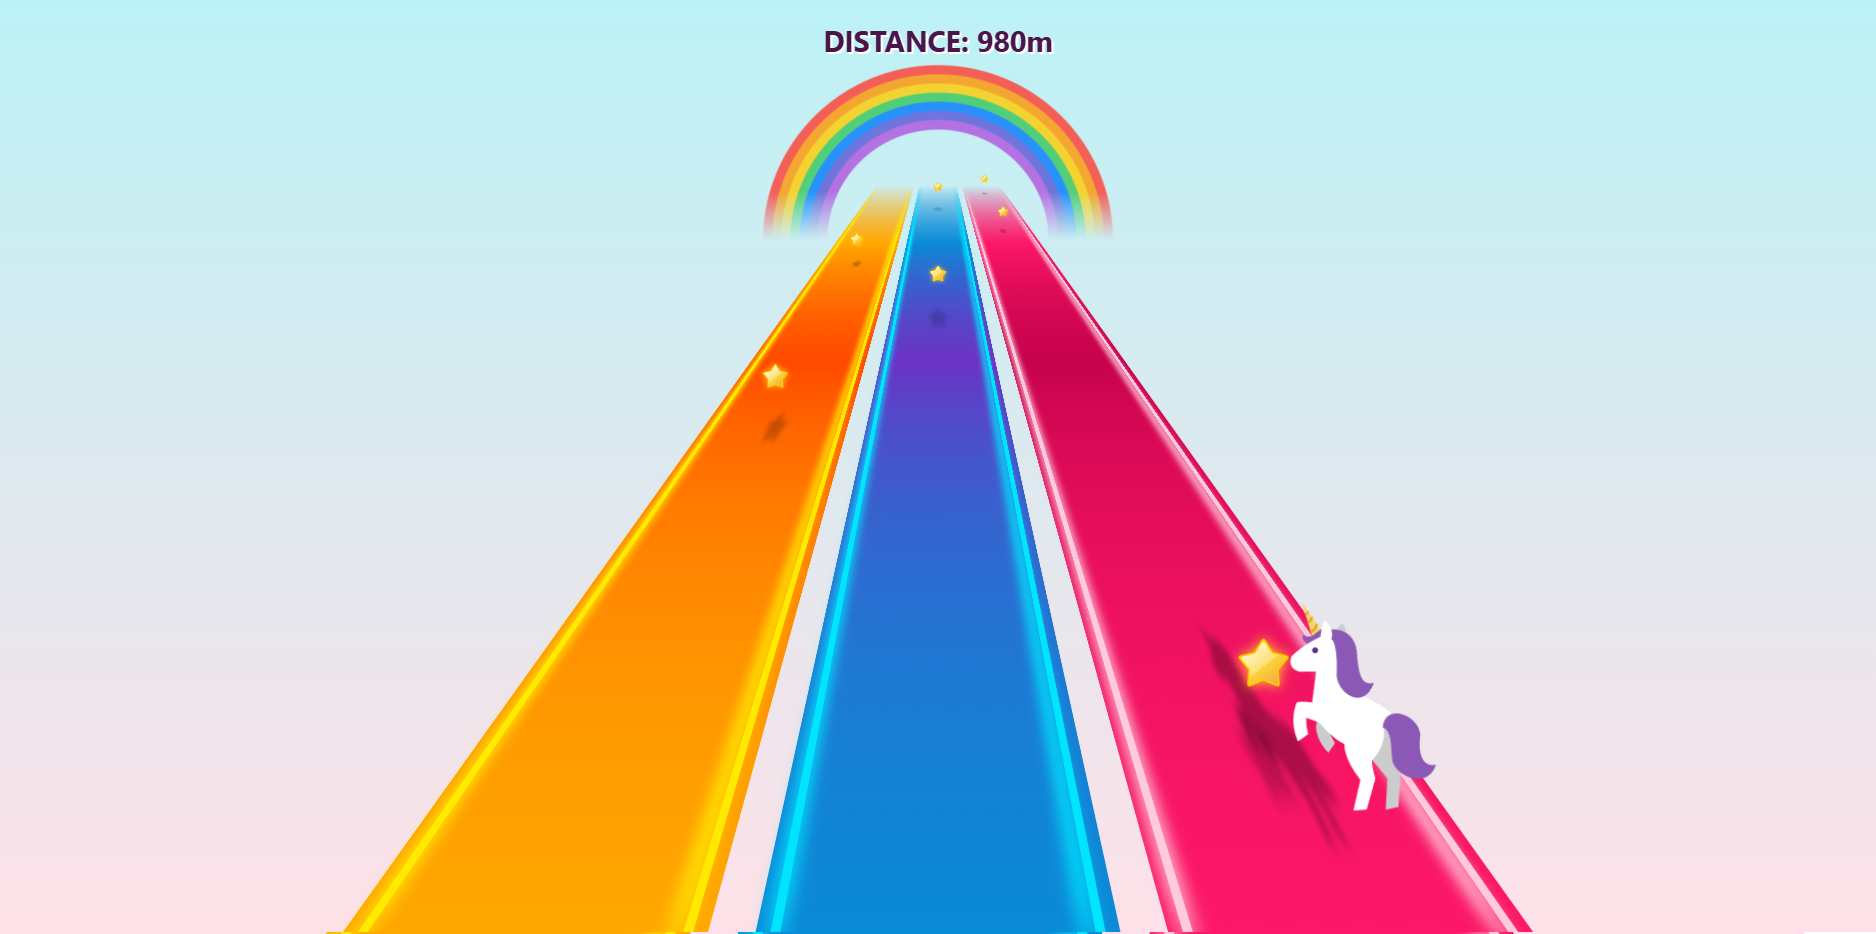
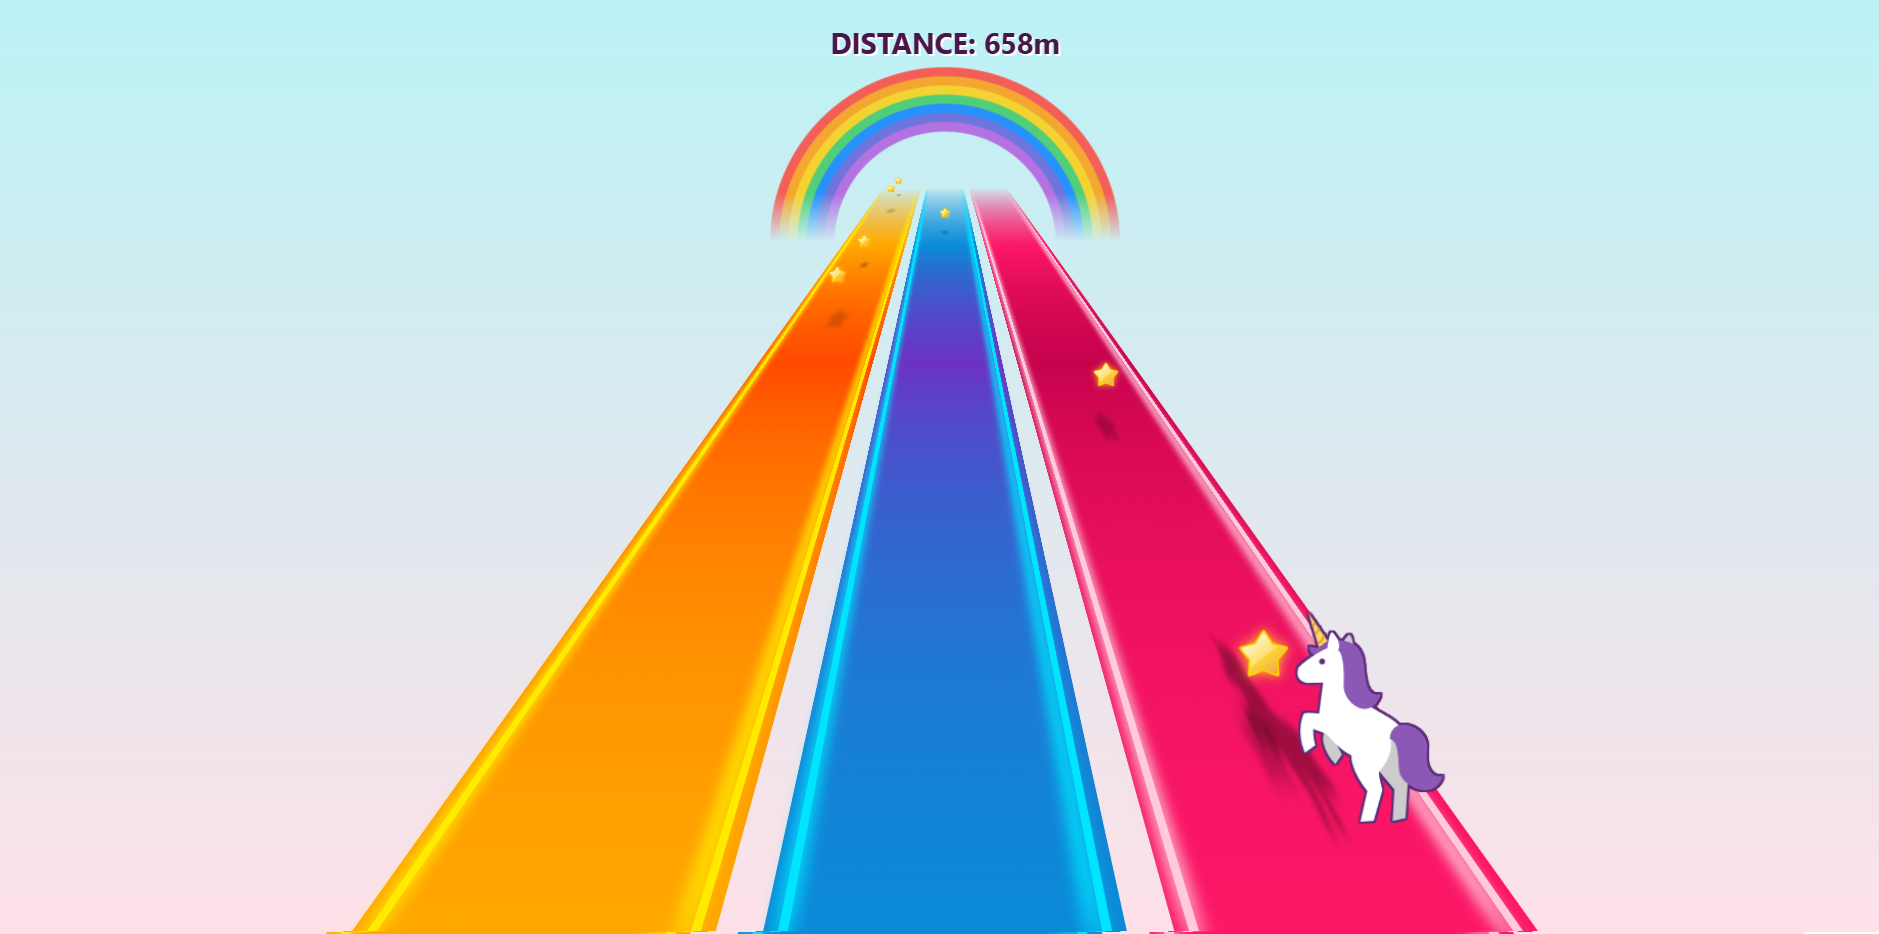
unicorn outline

Changed region(s): [[0.2473, 0.031, 0.7729, 1.0], [0.1855, 0.8383, 0.2473, 1.0], [0.7729, 0.9004, 0.8348, 1.0]]

diff --git a/assets.html b/assets.html
@@ -11,6 +11,10 @@ body {
   background: repeating-conic-gradient(#808080 0% 25%, #e0e0e0 0% 50%) 0 0 / 40px 40px;
 }
 
+.unicorn { filter: drop-shadow(2px 0 0 #5f2d79) 
+          drop-shadow(-2px 0 0 #5f2d79) 
+          drop-shadow(0 2px 0 #5f2d79) 
+          drop-shadow(0 -2px 0 #5f2d79);}
 .rainbow { opacity: 0.8; }
 .cloud {  filter: brightness(0.8) (1px); }
 .star { filter: drop-shadow(0 0 8px rgba(255, 220, 30, 0.9)); }
@@ -24,6 +28,7 @@ body {
     <img src="assets/favicon.svg" width="100" height="100" />
     <br />
     <img src="assets/unicorn.svg" width="220" height="316" />
+    <img src="assets/unicorn.svg" width="220" height="316" class="unicorn" />
     <br />
     <img src="assets/rainbow.svg" width="700" height="400" />
     <img src="assets/rainbow.svg" width="700" height="400" class="rainbow" />

diff --git a/index.html b/index.html
@@ -73,6 +73,10 @@
     .unicorn-img {
       position: absolute; bottom: 100px; left: 0; width: 100%; height: 100%; z-index: 2;
       animation: gallop 0.8s ease-in-out infinite alternate;
+      filter: drop-shadow(2px 0 0 #5f2d79) 
+          drop-shadow(-2px 0 0 #5f2d79) 
+          drop-shadow(0 2px 0 #5f2d79) 
+          drop-shadow(0 -2px 0 #5f2d79);
     }
     .player-shadow-unicorn {
       position: absolute; bottom: 10px; left: 50%; width: 90px; height: 90px; z-index: 1;
